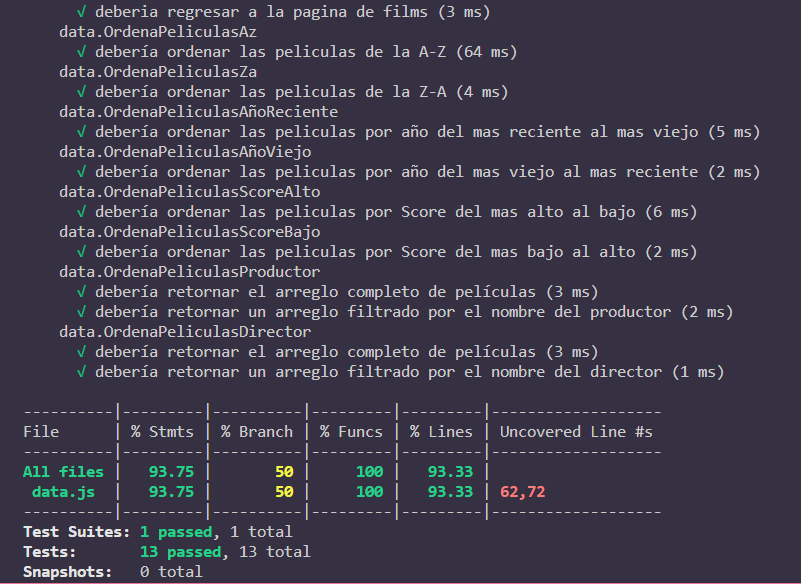
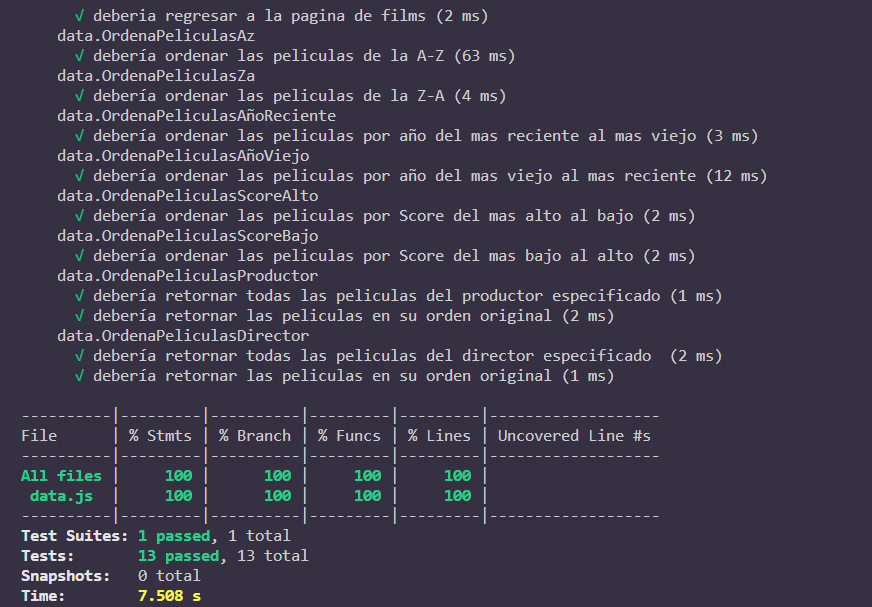
modificacion de test

Changed region(s): [[0.0624, 0.0, 0.9675, 0.6473], [0.0, 0.6781, 1.0, 1.0], [0.8427, 0.4007, 0.8739, 0.4623]]

diff --git a/test/data.spec.js b/test/data.spec.js
@@ -154,7 +154,7 @@ describe('data', () => {
 
 describe('data', () => {
   describe('data.OrdenaPeliculasProductor', () => {
-    it('debería retornar el arreglo completo de películas', () => {
+    it('debería retornar todas las peliculas del productor especificado', () => {
       const arrayPeliculas = [
         { producer: "Hayao Miyazaki", title: "My Neighbor Totoro" },
         { producer: "Hayao Miyazaki", title: "Kiki's Delivery Service" },
@@ -170,21 +170,21 @@ describe('data', () => {
       expect(resultado).toEqual(expected);
     });
 
-    it('debería retornar un arreglo filtrado por el nombre del productor', () => {
+    it('debería retornar las peliculas en su orden original', () => {
       const arrayPeliculas = [
         { producer: "Hayao Miyazaki", title: "My Neighbor Totoro" },
         { producer: "Hayao Miyazaki", title: "Kiki's Delivery Service" },
       ];
 
-      const resultado = data.OrdenaPeliculasProductor(arrayPeliculas, "Hayao Miyazaki");
-      expect(resultado).toEqual(arrayPeliculas);
+      const resultado = data.OrdenaPeliculasProductor(arrayPeliculas, "Producers");
+      expect(arrayPeliculas).toEqual(resultado);
     });
   });
 });
 
 describe('data', () => {
   describe('data.OrdenaPeliculasDirector', () => {
-    it('debería retornar el arreglo completo de películas', () => {
+    it('debería retornar todas las peliculas del director especificado ', () => {
       const arrayPeliculas = [
         { director: "Hiroyuki Morita", title: "The Cat Returns" },
         { director: "Hiromasa Yonebayashi", title: "The Secret World of Arrietty" },
@@ -200,14 +200,14 @@ describe('data', () => {
       expect(resultado).toEqual(expected);
     });
 
-    it('debería retornar un arreglo filtrado por el nombre del director', () => {
+    it('debería retornar las peliculas en su orden original', () => {
       const arrayPeliculas = [
         { director: "Hiromasa Yonebayashi", title: "The Secret World of Arrietty" },
         { director: "Hiromasa Yonebayashi", title: "When Marnie Was There" },
       ];
 
-      const resultado = data.OrdenaPeliculasDirector(arrayPeliculas, "Hiromasa Yonebayashi");
-      expect(resultado).toEqual(arrayPeliculas);
+      const resultado = data.OrdenaPeliculasDirector(arrayPeliculas, "Directors");
+      expect(arrayPeliculas).toEqual(resultado);
     });
   });
 });

diff --git a/src/personajes.html b/src/personajes.html
@@ -1,29 +1,35 @@
 <!DOCTYPE html>
 <html lang="en">
+
 <head>
     <meta charset="UTF-8">
     <meta name="viewport" content="width=device-width, initial-scale=1.0">
     <title>✨ Characters | Studio Ghibli</title>
     <link rel="stylesheet" href="personajes-style.css" />
 </head>
+
 <body>
     <head class="encabezado">
         <h1>Characters</h1>
         <div>
-          <ul class="movies-list">
-              <div class="byMovie"> By Movie </div>
-                <a href="./index.html">
-                <button>Return Home</button></a> 
+            <ul class="movies-list">
+                <div class="byMovie"> By Movie </div>
+                <a href="./index.html">`
+                    <button>Return Home</button></a>
                 <button value="0">Castle in the Sky</button>
                 <button value="1">My Neighbor Totoro</button>
                 <button value="2">Kiki's Delivery Service</button>
-                <button value="3">Grave of the Fireflies</button> 
-                <button value="4">Only Yesterday</button> 
-                <button value="5">Porco Rosso</button>          
-          </ul>
+                <button value="3">Grave of the Fireflies</button>
+                <button value="4">Only Yesterday</button>
+                <button value="5">Porco Rosso</button>
+            </ul>
         </div>
     </head>
+    <footer><!--Se agrega pie de pagina-->
+        <p>Creada por: Nancy Nallely Martinez Dominguez y Fabiola Granados Zavala</p>
+    </footer>
     <div id="people"></div>
     <script src="modulepersonajes.js" type="module"></script>
 </body>
+
 </html>

diff --git a/src/main.js b/src/main.js
@@ -87,8 +87,8 @@ function mostrarPeliculas(peliculas) {
     card += '<footer>';//Sigue el pie de página de la tarjeta con la etiqueta "footer". Dentro del pie de página, hay un contenedor de metadatos de publicación con la clase "post-meta". Dentro de este contenedor, se muestran varios elementos "span" que contienen información de la película, como el puntaje ("rt_score"), el año de lanzamiento ("release_date"), el productor ("producer") y el director ("director").
     card += '<div class="post-meta">';
     card += '<span>Score: ' + pelicula.rt_score + '</span><br>';
-    card += '<span>Año: ' + pelicula.release_date + '</span><br>';
-    card += '<span>Productor: ' + pelicula.producer + '</span><br>';
+    card += '<span>Year: ' + pelicula.release_date + '</span><br>';
+    card += '<span>Producer: ' + pelicula.producer + '</span><br>';
     card += '<span>Director: ' + pelicula.director + '</span><br>';
     card += '</div>';//•	Al finalizar el bucle, la variable cards contendrá todo el código HTML de las tarjetas de películas.
     card += '</footer>';

diff --git a/src/index.html b/src/index.html
@@ -1,14 +1,16 @@
 <!DOCTYPE html>
 <html>
-  <head>
-    <meta charset="utf-8">
-    <title>Studio Ghibli | Fanpage 🌸</title>
-    <link rel="stylesheet" href="styleIndex.css" />
-  </head>
-  <body>
-    <video autoplay loop muted>
-      <source src="./multimedia/StudiosGhibli.mp4" type="video/mp4">
-    </video>
+
+<head>
+  <meta charset="utf-8">
+  <title>Studio Ghibli | Fanpage 🌸</title>
+  <link rel="stylesheet" href="styleIndex.css" />
+</head>
+
+<body>
+  <video autoplay loop muted>
+    <source src="./multimedia/StudiosGhibli.mp4" type="video/mp4">
+  </video>
   <div class="contenido">
     <header>
       <h1 class="titulo">Studio Ghibli</h1>
@@ -18,7 +20,8 @@
       <button onclick="location.href='./animacionesGhibli.html'">Films</button>
       <button onclick="location.href='./personajes.html'">Personajes</button>
     </div>
-  <footer>by Nancy Martinez✨| Faby Granados💚</footer>
+    <footer>by Nancy Martinez✨| Faby Granados💚</footer>
   </div>
-  </body>
+</body>
+
 </html>

diff --git a/src/style.css b/src/style.css
@@ -15,15 +15,13 @@
   font-family: "Ysabeau SC";
   background: url(./multimedia/Fondos/fondo4.jpg) no-repeat fixed;
   background-size: cover;
-  z-index: -1;
 
 }
 /*Se edita el body de la pag curiosidades por el nombre de su clase*/
 #pagCuriosidades{
   font-family: "Ysabeau SC";
-  background: url(./multimedia/Fondos/fondo6.jpg) no-repeat fixed;
+  background: url(./multimedia/Fondos/fondo9.jpg) no-repeat fixed;
   background-size: cover;
-  z-index: -1;
 
 }
 /*Se editan los p con las curiosidades por el nombre de su clase*/
@@ -148,7 +146,6 @@
 /*Se edita el header por el nombre de su clase, siendo el contenedor del titulo*/
 .temaPeli {
   display: flex;
-  justify-content: space-evenly;
   justify-content: center;
 }
 
@@ -249,9 +246,8 @@ img {
   height: auto;
 }
 
-/*Se editan todas las img que tengan el nombre de esta clase imegen*/
+/*Se editan todas las img que tengan el nombre de esta clase imagen*/
 .imagen img {
-  fill: #c7c4c4;
   padding: 1.5rem;
   height: 300px;
 }

diff --git a/src/curiosidades.html b/src/curiosidades.html
@@ -4,7 +4,7 @@
 <head>
   <meta charset="utf-8">
   <meta name="viewport" content="width=device-width, initial-scale=1.0"> <!--Indica el tamaño de la pantalla-->
-  <title>characters</title>
+  <title>Curiosities</title>
   <link rel="stylesheet" href="style.css" />
 </head>
 
